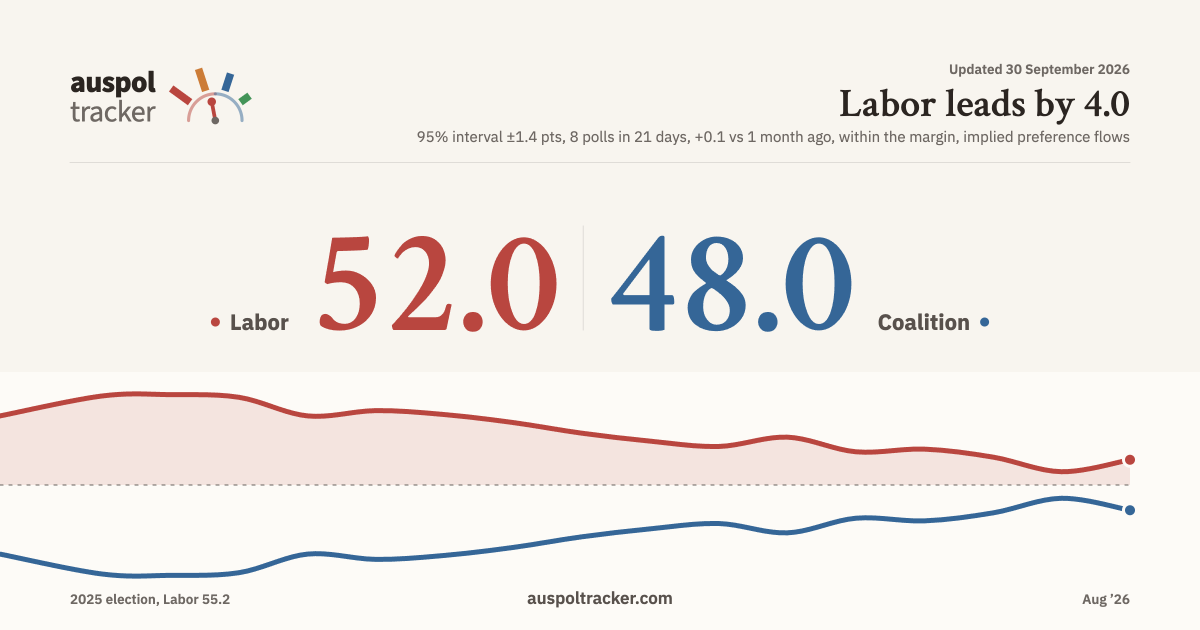
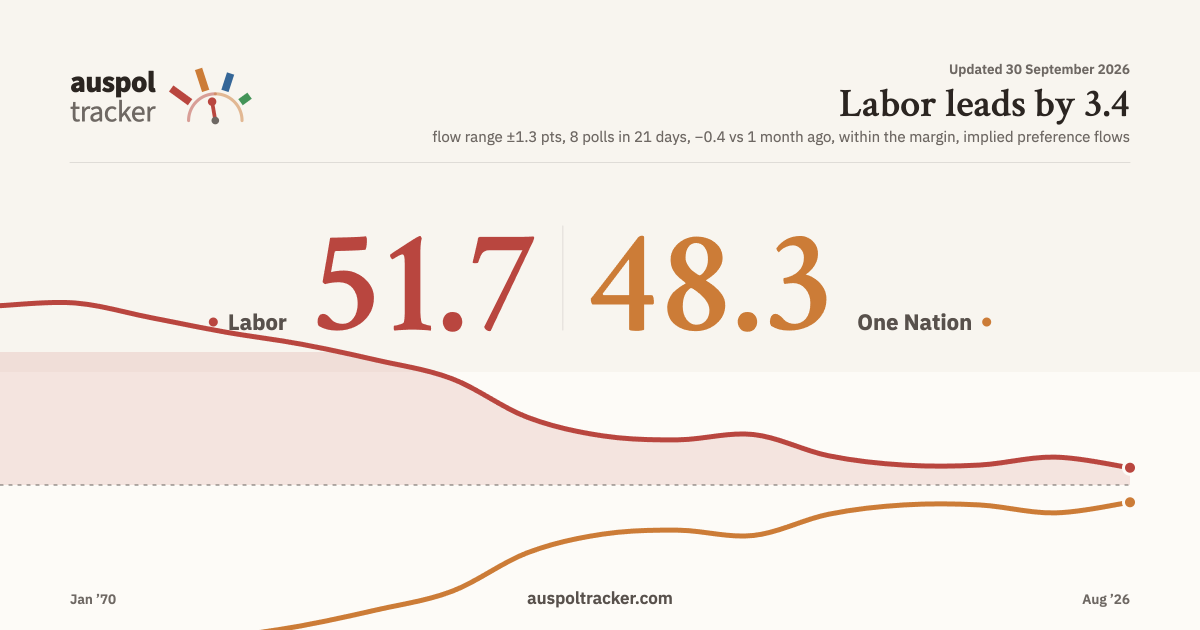
Share card quotes Labor's strongest-rival two-party contest, not always the Coalition - user call ("it should take the two-party preferred of Labor's strongest rival"). The card drew ALP v L/NP whatever the page led with, so since One Nation took the deadbanded board in June it previewed a contest t

diff --git a/.build/newtracker/make-card.js b/.build/newtracker/make-card.js
@@ -61,6 +61,46 @@
         changeSig: D.synthLatest.changeSig,
         method: { ...D.latest.method, nPolls: D.synthLatest.n } }
     : D.latest;
+  /* WHICH CONTEST THE CARD QUOTES
+     Labor against the rival the site leads with - gen-data's rivalLead, the
+     deadbanded walk over the implied series that the hero, the favicon and
+     the masthead all defer to. The card drew ALP v L/NP whatever the page
+     led with, so while One Nation held the spot it previewed a contest the
+     page had left. When the ON pairing is quoted its figures come from
+     latest.onImp - the pairing's only quoted level, the primaries read
+     through one first-principles flow set - with the pollsters' published
+     head-to-heads (altLatest.alp_on) the only fallback. The implied
+     pairing's interval is that flow table's own RANGE, not a 95% sampling
+     interval, so the caveat line names it "flow range", as the hero does.
+     Mirror: build.mjs's cardContest builds this same view. */
+  const onImp = D.latest.onImp && D.latest.onImp.a != null ? D.latest.onImp : null;
+  const onPub = D.altLatest && D.altLatest.alp_on && D.altLatest.alp_on.a != null
+    ? D.altLatest.alp_on : null;
+  const VS_ON = D.latest.rivalLead === "alp_on" && !!(onImp || onPub);
+  /* One normalised view of the quoted contest, so nothing below branches on
+     the matchup again. LNP: the implied merge above (published fallback),
+     trend the classic aggregate, anchored at the 2025 count. ON: onImp's
+     figures, its flow range as the band, trend the implied ALP-ON monthly
+     series (alt2pp.alp_on under the published fallback) - no anchor, no
+     ALP-ON count of the 2025 election exists. */
+  const Q = VS_ON ? {
+    opp: "onp", oppLab: "One Nation",
+    a: onImp ? onImp.a : onPub.a, b: onImp ? onImp.b : onPub.b,
+    ci: onImp ? onImp.band : onPub.ci95, ciLab: onImp ? "flow range" : "95% interval",
+    prev: onImp ? onImp.aPrev : onPub.aPrev,
+    sig: !!(onImp ? onImp.changeSig : onPub.changeSig),
+    n: onImp ? onImp.n : onPub.n, imp: !!onImp,
+    series: (onImp ? D.synthOn : D.alt2pp.alp_on).map((d) => ({ x: d.x, a: d.a, b: d.b })),
+    anchor: null,
+  } : {
+    opp: "lnp", oppLab: "Coalition",
+    a: L.alp2pp, b: L.lnp2pp,
+    ci: L.alp2ppCi95, ciLab: "95% interval",
+    prev: L.alp2ppPrev, sig: !!L.changeSig,
+    n: L.method.nPolls, imp: IS_IMP,
+    series: D.agg2pp.map((d) => ({ x: d.x, a: d.alp, b: d.lnp })),
+    anchor: "2025 election, Labor " + D.agg2pp[0].alp.toFixed(1),
+  };
   const W = 1200, H = 630, S = 2;              // draw at 2x, export at 1x
   const cv = document.createElement("canvas");
   cv.width = W * S; cv.height = H * S;
@@ -79,6 +119,7 @@
   T.panel = R("oklch(0.988 0.005 80)");
   T.alpFill = R("oklch(0.55 0.150 27 / 0.13)");
   T.lnpFill = R("oklch(0.50 0.095 250 / 0.13)");
+  T.onpFill = R("oklch(0.66 0.130 58 / 0.13)");
 
   c.fillStyle = T.bg; c.fillRect(0, 0, W, H);
   const PAD = 70;
@@ -166,12 +207,9 @@
     const r = 12 * k, rad = (d) => ((d - 90) * Math.PI) / 180;
     const P = (d, rr) => ({ x: cx + Math.sin((d * Math.PI) / 180) * rr,
                             y: cy - Math.cos((d * Math.PI) / 180) * rr });
-    // whichever opponent polls the highest 2PP against Labor
-    const g2 = D.agg2pp[D.agg2pp.length - 1];
-    const gon = D.alt2pp && D.alt2pp.alp_on && D.alt2pp.alp_on[D.alt2pp.alp_on.length - 1];
-    const cands = [{ id: "lnp", lab: g2.alp, opp: g2.lnp }];
-    if (gon) cands.push({ id: "onp", lab: gon.a, opp: gon.b });
-    const top = cands.slice().sort((x, y) => y.opp - x.opp)[0];
+    // the rival the site leads with - the same contest Q quotes (rivalLead's
+    // deadbanded ruling), so the needle, the figures and the page never mix
+    const top = { id: Q.opp, lab: Q.a, opp: Q.b };
     const oppCol = T[top.id], margin = top.lab - top.opp;
 
     const arc = (a, b, col) => { c.beginPath(); c.arc(cx, cy, r, rad(a), rad(b));
@@ -204,8 +242,8 @@
      The band was 143px tall carrying one 14px line; the figures below need
      the whole middle of the card, and this is the only place the standfirst
      fits without taking it from them. */
-  const marg = L.alp2pp - L.lnp2pp, chg = L.alp2pp - L.alp2ppPrev;
-  const basisTag = IS_IMP ? ", implied preference flows" : "";
+  const marg = Q.a - Q.b, chg = Q.prev != null ? Q.a - Q.prev : 0;
+  const basisTag = Q.imp ? ", implied preference flows" : "";
   c.textAlign = "right";
   /* The PUBLICATION date of the most recent poll, which is what the site's own
      "Updated" stamp shows - not `updated`, the end of its fieldwork. The two
@@ -217,14 +255,14 @@
      and the 2.2px tracking with it, being what carried the caps. */
   caps("Updated " + L.published, W - PAD, 74, 13.5, 0, T.ink3, 600);
   c.font = '600 40px "Crimson Text", Georgia, serif'; c.fillStyle = T.ink;
-  c.fillText((marg >= 0 ? "Labor" : "Coalition") + " leads by " + Math.abs(marg).toFixed(1), W - PAD, 116);
+  c.fillText((marg >= 0 ? "Labor" : Q.oppLab) + " leads by " + Math.abs(marg).toFixed(1), W - PAD, 116);
   // one line, not two: the caveats belong beside the sentence they qualify.
   // The page will not call a move real unless it clears its own interval.
   c.font = '400 15px "IBM Plex Sans", sans-serif'; c.fillStyle = T.ink3;
-  c.fillText("95% interval ±" + L.alp2ppCi95.toFixed(1) + " pts, "
-             + L.method.nPolls + " polls in " + L.method.windowDays + " days, "
+  c.fillText(Q.ciLab + " ±" + Q.ci.toFixed(1) + " pts, "
+             + Q.n + " polls in " + L.method.windowDays + " days, "
              + (chg > 0 ? "+" : "−") + Math.abs(chg).toFixed(1) + " vs 1 month ago"
-             + (L.changeSig ? "" : ", within the margin")
+             + (Q.sig ? "" : ", within the margin")
              + basisTag, W - PAD, 142);
   c.textAlign = "left";
   c.strokeStyle = T.line; c.lineWidth = 1;
@@ -249,10 +287,10 @@
     return c.measureText(t).width; };
   const measFig = (v) => { c.font = figFont; return c.measureText(v.toFixed(1)).width; };
 
-  const wLabTxt = measLabel("Labor"), wCoaTxt = measLabel("Coalition");
-  const wAlp = measFig(L.alp2pp), wLnp = measFig(L.lnp2pp);
-  const rowW = DOT * 2 + 10 + wLabTxt + GAP + wAlp + GAP + 1 + GAP + wLnp
-             + GAP + wCoaTxt + 10 + DOT * 2;
+  const wLabTxt = measLabel("Labor"), wOppTxt = measLabel(Q.oppLab);
+  const wAlp = measFig(Q.a), wOpp = measFig(Q.b);
+  const rowW = DOT * 2 + 10 + wLabTxt + GAP + wAlp + GAP + 1 + GAP + wOpp
+             + GAP + wOppTxt + 10 + DOT * 2;
   let x = (W - rowW) / 2;
 
   /* Centred on the label's cap height, not floating above it - derived from
@@ -266,13 +304,13 @@
 
   dot(x + DOT, T.alp); x += DOT * 2 + 10;
   caps("Labor", x, FIG_Y, LAB_PX, 0, T.ink2, 700); x += wLabTxt + GAP;
-  figure(L.alp2pp, T.alp); x += GAP;
+  figure(Q.a, T.alp); x += GAP;
   c.strokeStyle = T.line; c.lineWidth = 1;
   c.beginPath(); c.moveTo(x + 0.5, FIG_Y - 104); c.lineTo(x + 0.5, FIG_Y); c.stroke();
   x += 1 + GAP;
-  figure(L.lnp2pp, T.lnp); x += GAP;
-  caps("Coalition", x, FIG_Y, LAB_PX, 0, T.ink2, 700); x += wCoaTxt + 10;
-  dot(x + DOT, T.lnp);
+  figure(Q.b, T[Q.opp]); x += GAP;
+  caps(Q.oppLab, x, FIG_Y, LAB_PX, 0, T.ink2, 700); x += wOppTxt + 10;
+  dot(x + DOT, T[Q.opp]);
 
   /* ---- the term's trend -------------------------------------------------- */
   /* The plot sits on its own, lighter panel running the full width and bled
@@ -285,7 +323,8 @@
      70px of air. */
   c.fillStyle = T.panel; c.fillRect(0, 372, W, H - 372);
   const CX0 = 0, CX1 = W - PAD, CY0 = 392, CY1 = 578;
-  const xs = D.agg2pp.map((d) => d.x), x0 = Math.min(...xs), x1 = Math.max(...xs);
+  const TS = Q.series;          // the quoted contest's term trend, [{x, a, b}]
+  const xs = TS.map((d) => d.x), x0 = Math.min(...xs), x1 = Math.max(...xs);
   const y0 = 43, y1 = 57;
   const sx = (x) => CX0 + ((x - x0) / (x1 - x0)) * (CX1 - CX0);
   const sy = (y) => CY1 - ((y - y0) / (y1 - y0)) * (CY1 - CY0);
@@ -293,8 +332,8 @@
     const p0 = pts[i - 1] || pts[i], p1 = pts[i], p2 = pts[i + 1], p3 = pts[i + 2] || p2;
     c.bezierCurveTo(p1[0] + (p2[0] - p0[0]) / 6, p1[1] + (p2[1] - p0[1]) / 6,
                     p2[0] - (p3[0] - p1[0]) / 6, p2[1] - (p3[1] - p1[1]) / 6, p2[0], p2[1]); } };
-  const aPts = D.agg2pp.map((d) => [sx(d.x), sy(d.alp)]);
-  const lPts = D.agg2pp.map((d) => [sx(d.x), sy(d.lnp)]);
+  const aPts = TS.map((d) => [sx(d.x), sy(d.a)]);
+  const lPts = TS.map((d) => [sx(d.x), sy(d.b)]);
 
   /* Shade the LEAD - the leader's line down to 50% - not the gap between the
      two lines. The lines are exact complements, so the gap is twice the margin
@@ -310,7 +349,7 @@
      were behind. Today Labor leads throughout, so this changes nothing yet. */
   c.save();
   c.beginPath(); c.rect(0, CY0 - 40, W, sy(50) - (CY0 - 40)); c.clip();
-  [[aPts, T.alpFill], [lPts, T.lnpFill]].forEach(([pts, fill]) => {
+  [[aPts, T.alpFill], [lPts, T[Q.opp + "Fill"]]].forEach(([pts, fill]) => {
     c.beginPath(); c.moveTo(pts[0][0], pts[0][1]); curve(pts);
     c.lineTo(CX1, sy(50)); c.lineTo(CX0, sy(50)); c.closePath();
     c.fillStyle = fill; c.fill();
@@ -326,7 +365,7 @@
   c.beginPath(); c.moveTo(CX0, sy(50)); c.lineTo(CX1, sy(50)); c.stroke();
   c.setLineDash([]); c.globalAlpha = 1;
 
-  [[lPts, T.lnp], [aPts, T.alp]].forEach(([pts, col]) => {
+  [[lPts, T[Q.opp]], [aPts, T.alp]].forEach(([pts, col]) => {
     c.beginPath(); c.moveTo(pts[0][0], pts[0][1]); curve(pts);
     c.strokeStyle = col; c.lineWidth = 5; c.lineCap = "round"; c.lineJoin = "round"; c.stroke();
     const e = pts[pts.length - 1];
@@ -338,7 +377,13 @@
      caps legible and what makes lowercase look pulled apart. The right-hand
      label takes the chart axis's own form - month, curly apostrophe, two
      digits - the same string buildXTicks writes on the site. */
-  caps("2025 election, Labor " + D.agg2pp[0].alp.toFixed(1), PAD, 604, 13.5, 0, T.ink3, 600);
+  /* Left end: the 2025 count, the classic pairing's own anchor. The ALP-ON
+     pairing HAS no such count, so its trend opens on its first month
+     instead - the right-hand label's own form, so the two ends match. */
+  const MNS = ["Jan", "Feb", "Mar", "Apr", "May", "Jun", "Jul", "Aug", "Sep", "Oct", "Nov", "Dec"];
+  const t0 = new Date(Q.series[0].x);
+  const leftLab = Q.anchor || MNS[t0.getUTCMonth()] + " ’" + String(t0.getUTCFullYear()).slice(2);
+  caps(leftLab, PAD, 604, 13.5, 0, T.ink3, 600);
   c.textAlign = "right"; caps("Aug \u201926", W - PAD, 604, 13.5, 0, T.ink3, 600); c.textAlign = "left";
 
   /* ---- footer ------------------------------------------------------------ */
@@ -370,11 +415,12 @@
      launching Chrome. Same shape build.mjs writes into
      assets/auspol-latest.json – mirror any change in both files. */
   window.__auspolCard = { png, publishedISO: L.publishedISO, fig: {
-    alp: L.alp2pp.toFixed(1), lnp: L.lnp2pp.toFixed(1),
-    ci: L.alp2ppCi95.toFixed(1),
-    n: L.method.nPolls, win: L.method.windowDays,
-    mom: (L.alp2pp - L.alp2ppPrev).toFixed(1), sig: !!L.changeSig,
-    basis: IS_IMP ? "imp" : "pub" } };
+    vs: VS_ON ? "onp" : "lnp",
+    alp: Q.a.toFixed(1), lnp: Q.b.toFixed(1),
+    ci: Q.ci.toFixed(1),
+    n: Q.n, win: L.method.windowDays,
+    mom: (Q.a - (Q.prev != null ? Q.prev : Q.a)).toFixed(1), sig: Q.sig,
+    basis: Q.imp ? "imp" : "pub" } };
   console.log("card drawn for data dated " + L.publishedISO
               + " – put this in assets/auspol-card.json");
   const a = document.createElement("a");
